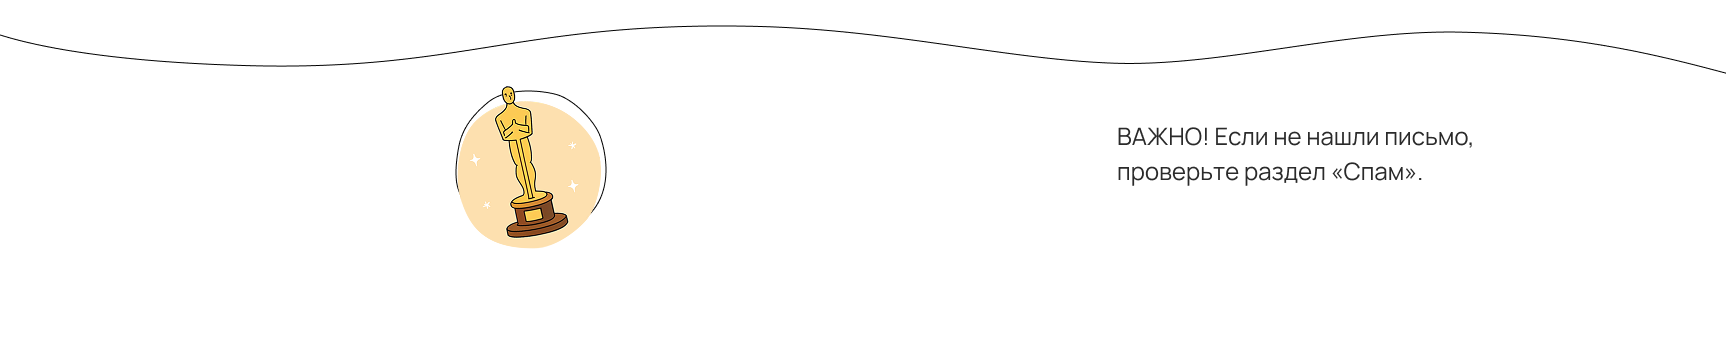
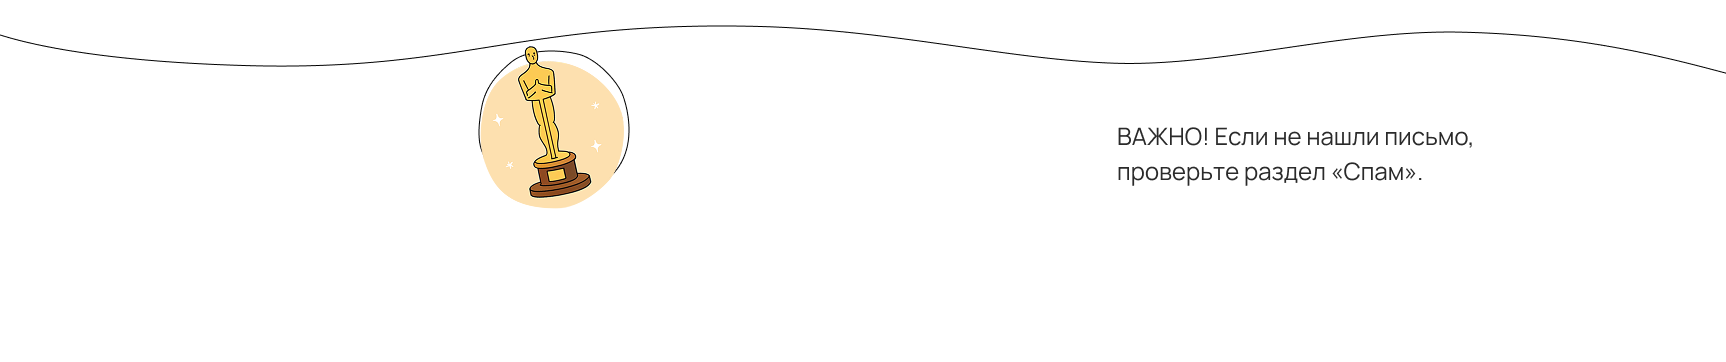
fix desktop

Changed region(s): [[0.2457, 0.1215, 0.3685, 0.6989]]

diff --git a/index.html b/index.html
@@ -242,7 +242,7 @@
         <img class="why-camera-left" src="images/camera-why.png" alt="" />
         <img class="why-plenka" src="images/why-plenka.png" alt="" />
        </div>
-     <img class="movie-back" src="images/Group 66.png" alt="">
+     <img class="movie-back" style="z-index: 200;"  src="images/Group 66.png" alt="">
     </section>
 
     <section class="what">

diff --git a/css/style.css b/css/style.css
@@ -586,7 +586,7 @@ iframe[name='ya-form-684310a1493639f66cf7f047'] {
 
 .why {
   position: relative;
-  margin-bottom: 88px;
+  margin-bottom: 130px;
 }
 .container {
 }
